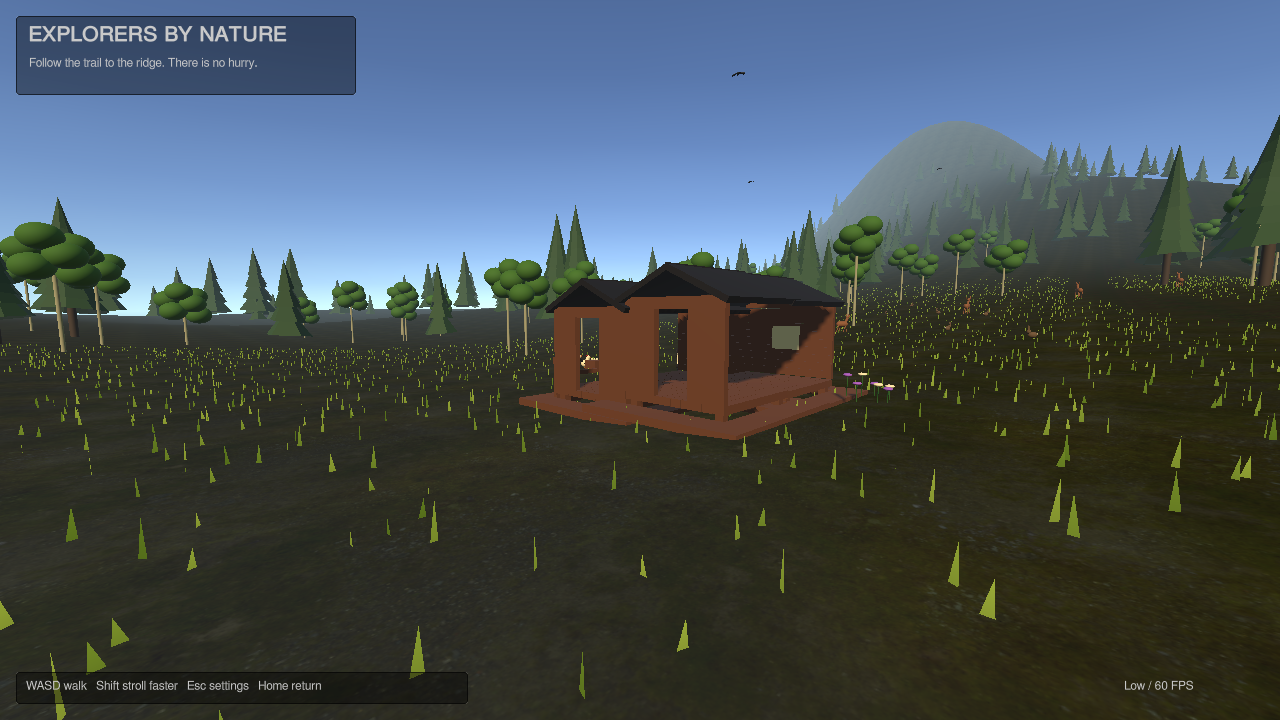
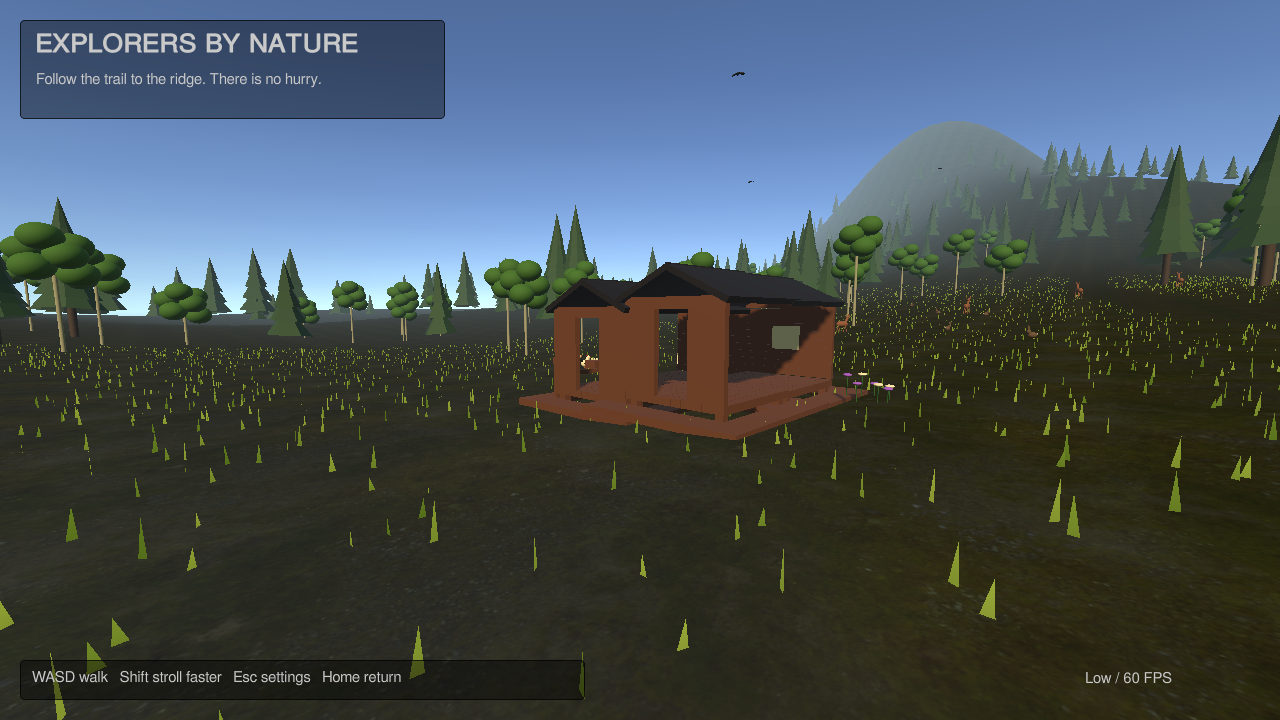
Finalize family prototype validation

diff --git a/docs/first-milestone.md b/docs/first-milestone.md
@@ -112,3 +112,5 @@ Both updated reports identify Linux build `b09351a/sha256:74938f6a204b46f270f712
 Evidence: [low report](benchmarks/family-amd-integrated-low.json), [high report](benchmarks/family-nvidia-high.json), [ranch screenshot](benchmarks/family-ranch.png), [Unity gameplay results](validation/family-playmode.xml), [server results from clean committed source](validation/family-server-tests.txt), [matching multiplayer/save snapshot](validation/family-shared-ranch.json).
 
 These remain accelerated, uncapped engine frame intervals on the same 32-thread, 32 GB desktop, with different graphics APIs and resolutions. They are not isolated GPU timings, a 20-player rendered-world load test, or proof of the intended two-core/8 GB floor. The automated ranch check exercises authority and rendering; the minigame's feel, family usability and native Windows behavior still require human playtesting.
+
+Final Linux and Windows players were rebuilt at `2b36535` after the HUD alignment and build-script restoration changes. The final two-rendered-client test passed again against the standalone server at revision 16. The Windows build also verified that the authoring scene is restored byte-for-byte after stamping the player. No native Windows execution is claimed.
